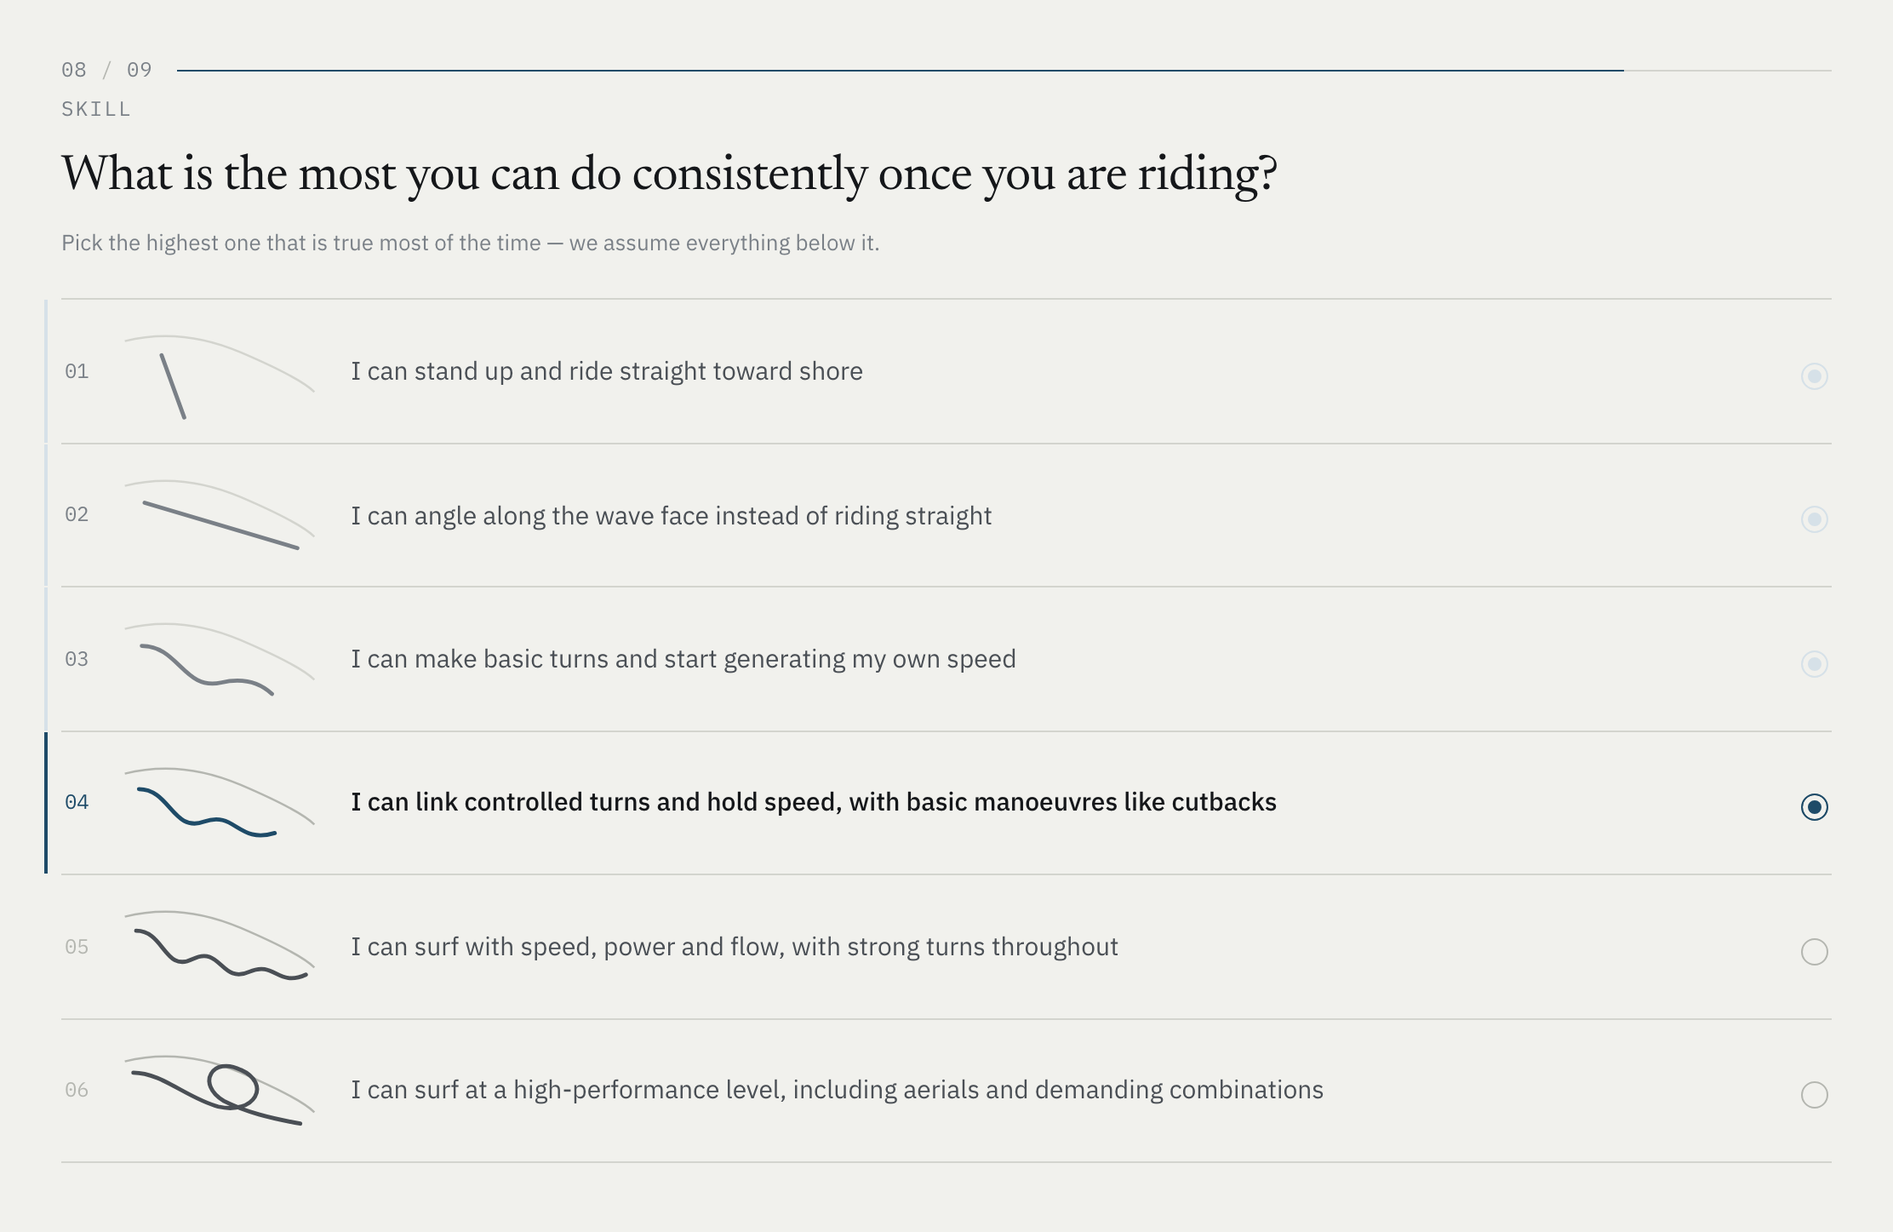
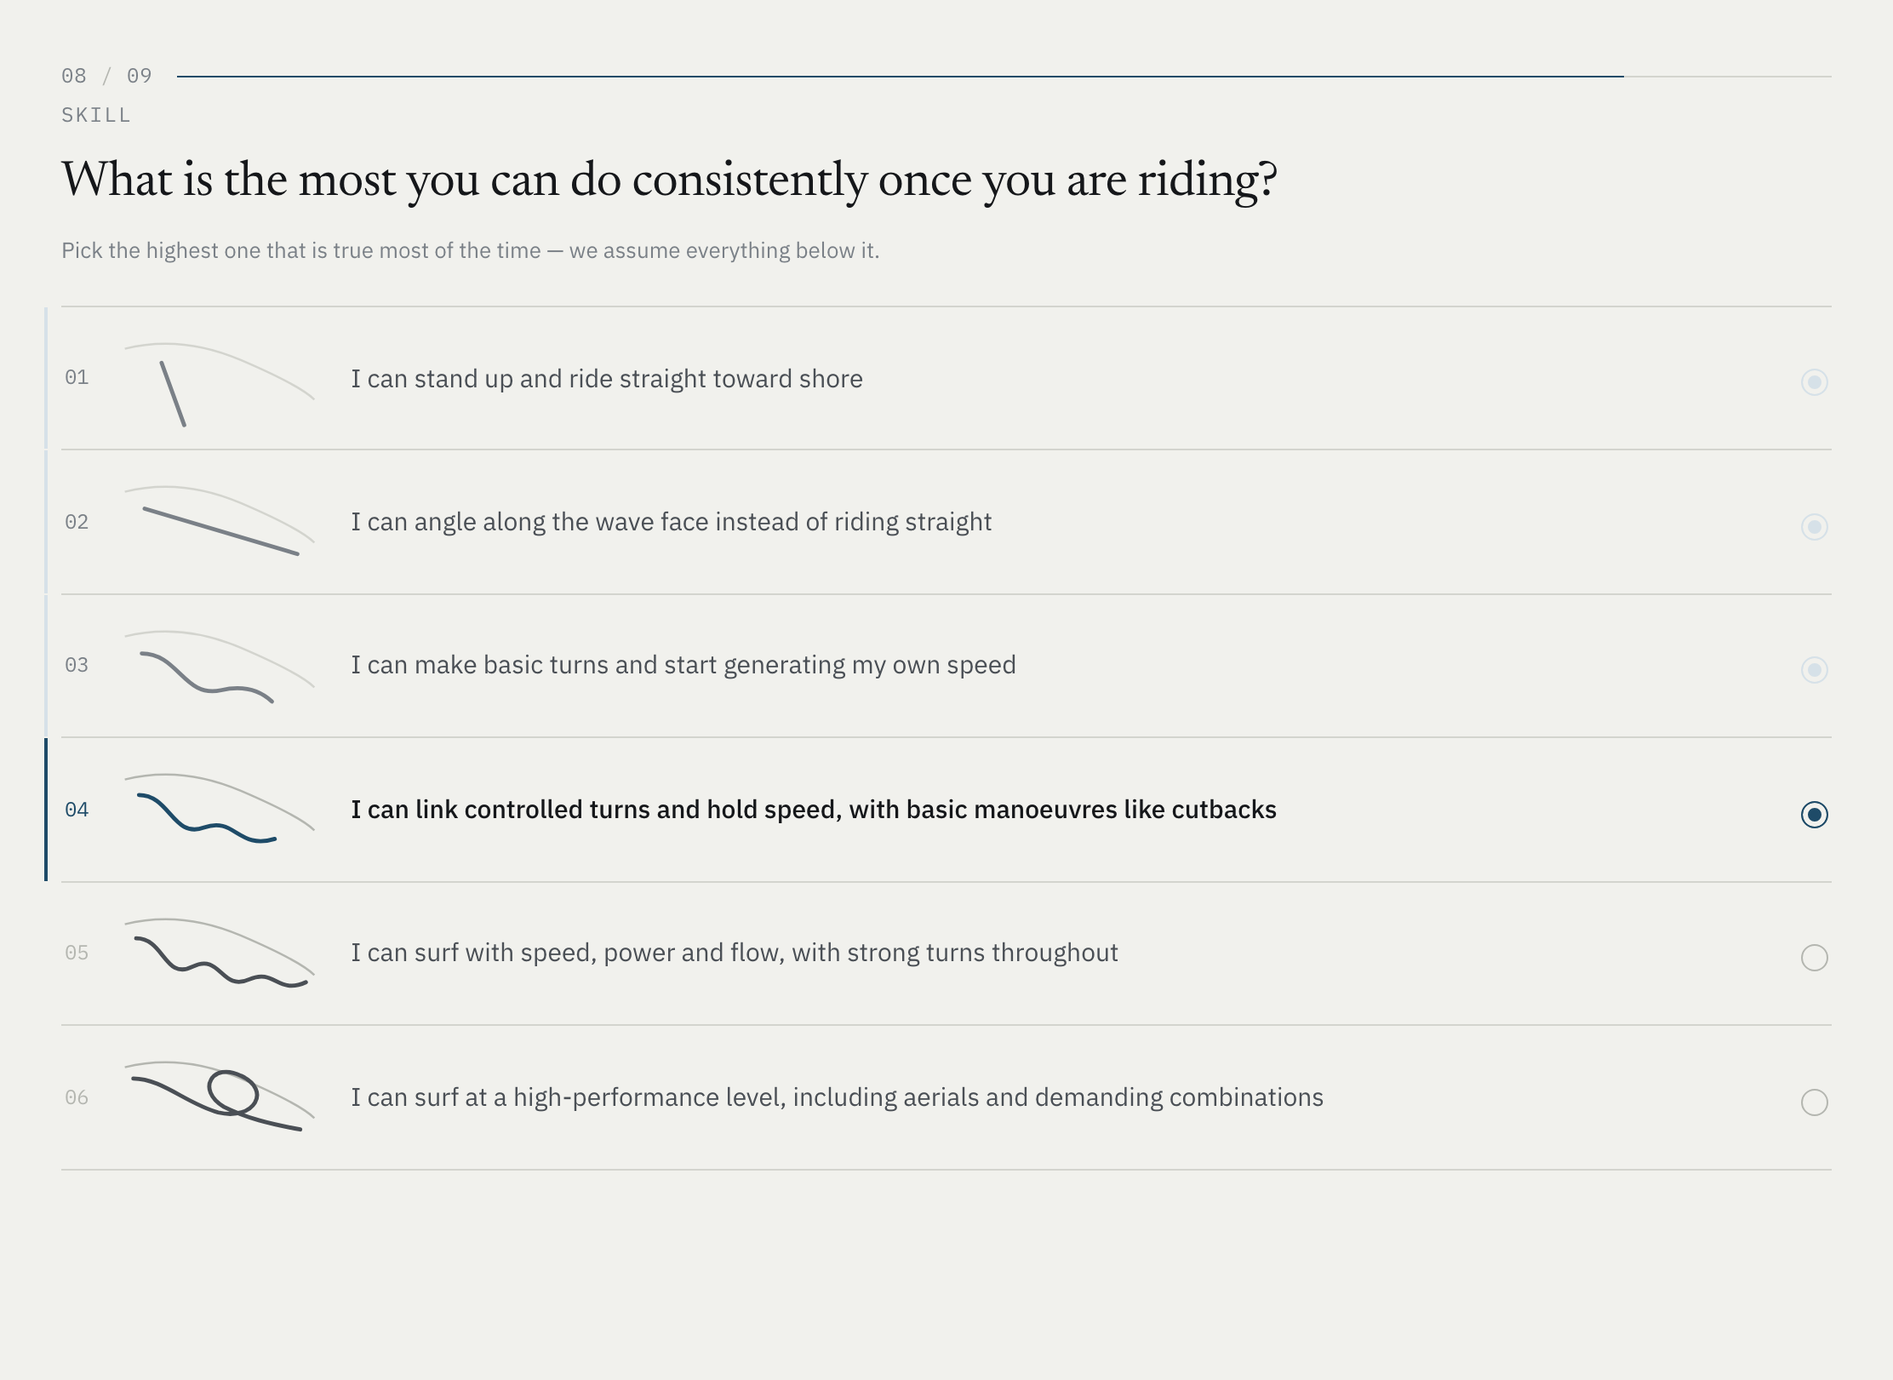
Redesign the profile and onboarding sections
Profile:
- Five granular annotations become four, each naming a region of the
  screen rather than a UI detail: who the surfer is, where they are
  heading, what to ride, and how to argue with it.
- Desktop puts the screenshot in the middle with two annotations
  either side, connected by a hairline to a small marker on the image
  edge, so nothing sits over the interface. Tablet and mobile stack
  the screen first and read the four as a list.
- New capture from the running app showing the whole screen, including
  Challenges and What you're looking for, with the prototype control
  hidden for the shot.

Onboarding:
- The old heading claimed the two featured screens were the two that
  carry the design; they are examples of interaction design, not the
  most important questions.
- Verified against the bundle and by walking the live app: nine
  questions are defined and a surfer answers nine, eight or six. Q2-Q4
  drop when there is no regular board, Q4 alone when the dimensions
  are unknown. The section now says so.
- Every question is listed in a three-column index, with the
  conditional ones marked and the logic left in one sentence.
- Both featured descriptions cut to three lines, and the two screens
  recaptured on one shared frame so they match at 2224x1621 with their
  proportions untouched.

Also fixes a class collision: the new annotation class was named
.qv-note, which the hero's prototype line already used, and the
[…]

diff --git a/projects/quiver.html b/projects/quiver.html
@@ -58,6 +58,15 @@
     .qv-figs--2 { grid-template-columns: repeat(2, 1fr); }
     .qv-hero-actions--inline { margin: 32px 0 0; }
 
+    /* Question index — every question at a glance, as an editorial index rather
+       than nine cards. Conditional ones say so and explain nothing further. */
+    .qv-qlist { display: grid; grid-template-columns: repeat(3, 1fr); column-gap: 32px; margin: 34px 0 0; padding: 0; list-style: none; }
+    .qv-q { display: grid; grid-template-columns: 24px 1fr; column-gap: 12px; align-items: start; padding: 13px 0; border-top: 1px solid var(--border); }
+    .qv-q__n { font-size: 12px; line-height: 1.6; color: var(--muted); font-variant-numeric: tabular-nums; }
+    .project-page .qv-q__l { font-size: 14px; font-weight: 300; line-height: 1.5; color: var(--text-body); margin: 0; max-width: none; }
+    .qv-q__c { display: block; margin-top: 3px; font-size: 11px; letter-spacing: 0.08em; text-transform: uppercase; color: var(--muted); }
+    .project-page .qv-qlist__after { margin-top: 34px; }
+
     /* Onboarding showcase — the two screens share a row, each introduced by the
        question it answers. Subgrid holds the eyebrow, heading, copy and mockup on
        the same four lines across both columns despite unequal copy lengths. */
@@ -77,6 +86,7 @@
     @media (max-width: 1099px) {
       .qv-screens { display: block; }
       .qv-screen { display: block; margin-top: 44px; }
+      .qv-qlist { grid-template-columns: 1fr 1fr; }
     }
 
     /* Matching — the prototype's own rack, lifted as vector and re-toned for
@@ -121,13 +131,39 @@
       .qv-match__toggle { display: none; }
     }
 
-    /* Annotated screen — pins ride the image in percentages, notes sit beside it */
-    .qv-annotated { display: grid; grid-template-columns: 1.55fr 1fr; gap: clamp(28px, 3vw, 52px); align-items: start; margin: 36px 0 0; }
-    .qv-annotated .screen-mockup { position: relative; }
-    .qv-pin { position: absolute; z-index: 2; pointer-events: none; left: var(--x); top: var(--y); width: 24px; height: 24px; margin: -12px 0 0 -12px; border-radius: 50%; background: var(--accent); color: #fff; font-size: 11px; font-weight: 500; display: flex; align-items: center; justify-content: center; font-variant-numeric: tabular-nums; box-shadow: 0 0 0 3px rgba(26, 26, 26, 0.75); transition: transform 0.2s; }
-    .qv-pin.is-active { transform: scale(1.25); }
-    .qv-notes .case-study-note.is-active .case-study-note__text { color: var(--text); }
-    .qv-notes .case-study-note { cursor: default; }
+    /* Profile — the screen is the centrepiece, with the four things it does named
+       either side of it. Markers ride the image edge at the matching height, so
+       nothing sits on top of the interface. */
+    .qv-profile { display: grid; grid-template-columns: 200px minmax(0, 1fr) 200px; column-gap: 22px; align-items: stretch; margin: 40px 0 0; }
+    .qv-profile__shot { position: relative; grid-column: 2; grid-row: 1; }
+    .qv-profile__shot .screen-mockup { border: 1px solid rgba(170, 195, 255, 0.16); border-radius: 8px; overflow: hidden; }
+    .qv-profile__shot img { width: 100%; height: auto; display: block; }
+    .qv-profile__side { position: relative; grid-row: 1; list-style: none; margin: 0; padding: 0; }
+    .qv-profile__side--l { grid-column: 1; }
+    .qv-profile__side--r { grid-column: 3; }
+
+    .qv-reg { position: absolute; top: var(--top); left: 0; right: 0; display: grid; grid-template-columns: 26px 1fr; column-gap: 12px; align-items: center; }
+    .project-page h3.qv-reg__t { grid-column: 2; font-size: 15px; font-weight: 400; line-height: 1.3; letter-spacing: -0.005em; color: var(--text); margin: 0; }
+    .project-page .qv-reg__b { grid-column: 1 / -1; font-size: 13.5px; font-weight: 300; line-height: 1.6; color: var(--text-body); margin: 10px 0 0; max-width: none; }
+    /* hairline across the gutter, meeting the dot on the image edge */
+    .qv-reg::after { content: ''; position: absolute; top: 13px; width: 22px; border-top: 1px solid var(--border); }
+    .qv-reg--l::after { right: -22px; }
+    .qv-reg--r::after { left: -22px; }
+    .qv-dot { position: absolute; top: var(--top); width: 7px; height: 7px; margin-top: 10px; border-radius: 50%; background: var(--accent); box-shadow: 0 0 0 3px var(--bg); }
+    .qv-dot--l { left: -3px; }
+    .qv-dot--r { right: -3px; }
+    .qv-reg.is-active .qv-reg__t { color: var(--text); }
+    .qv-dot.is-active { transform: scale(1.5); }
+    .qv-dot { transition: transform 0.2s; }
+    /* placed after the base rules so it actually wins: the screen first, then
+       the four regions read as a plain list */
+    @media (max-width: 1099px) {
+      .qv-profile { display: block; }
+      .qv-profile__side { margin-top: 8px; }
+      .qv-reg { position: static; margin-top: 30px; }
+      .qv-reg::after, .qv-dot { display: none; }
+      .project-page .qv-reg__b { font-size: 15px; }
+    }
 
     /* Pipeline status — shape and label, never colour alone */
     .qv-legend { display: flex; flex-wrap: wrap; gap: 20px; margin: 28px 0 0; max-width: none; font-size: 11px; letter-spacing: 0.08em; text-transform: uppercase; color: var(--muted); }
@@ -142,6 +178,7 @@
     .project-page .qv-node--spec { border-style: dotted; opacity: 0.8; }
 
     @media (max-width: 900px) { .project-page .qv-refs { grid-template-columns: 1fr; gap: 24px; } }
+    @media (max-width: 620px) { .qv-qlist { grid-template-columns: 1fr; } }
     @media (max-width: 900px) {
       .qv-figs--3, .qv-figs--2 { grid-template-columns: 1fr; }
       .qv-hero-actions { margin-bottom: 56px; }
@@ -152,8 +189,6 @@
       .qv-match figcaption { text-align: center; }
       .project-page .qv-match__caption { height: auto; min-height: 3.6em; }
       .qv-match__line { font-size: 15px; }
-      .qv-annotated { grid-template-columns: 1fr; }
-      .qv-pin { display: none; }
     }
   </style>
 </head>
@@ -317,30 +352,69 @@
     <!-- Onboarding & Information Collection -->
     <div class="content-section qv-wide">
       <p class="section-label">Onboarding</p>
-      <h2>Nine questions, and the two that carry the design</h2>
-      <p>Choosing the nine took longer than building them, under one rule &mdash; do not ask anything that cannot change the recommendation &mdash; and one precedence order: skill sets the boundaries, pain points outrank goals. Seven are a prompt and a list. Two are not, because the signal underneath them could not be collected honestly that&nbsp;way.</p>
+      <h2>Building a picture of the surfer</h2>
+      <p>Nine questions are defined and a surfer answers nine, eight or six. The board questions drop out when there is no regular board to describe, and the dimensions question when the surfer does not know them. Nothing is asked that cannot change the&nbsp;recommendation.</p>
+
+      <ol class="qv-qlist">
+        <li class="qv-q">
+          <span class="qv-q__n">01</span>
+          <p class="qv-q__l">The board you ride now</p>
+        </li>
+        <li class="qv-q">
+          <span class="qv-q__n">02</span>
+          <p class="qv-q__l">What that board feels like<span class="qv-q__c">if it applies</span></p>
+        </li>
+        <li class="qv-q">
+          <span class="qv-q__n">03</span>
+          <p class="qv-q__l">Whether you know its dimensions<span class="qv-q__c">if it applies</span></p>
+        </li>
+        <li class="qv-q">
+          <span class="qv-q__n">04</span>
+          <p class="qv-q__l">The dimensions themselves<span class="qv-q__c">if it applies</span></p>
+        </li>
+        <li class="qv-q">
+          <span class="qv-q__n">05</span>
+          <p class="qv-q__l">What holds you back</p>
+        </li>
+        <li class="qv-q">
+          <span class="qv-q__n">06</span>
+          <p class="qv-q__l">What you want more of</p>
+        </li>
+        <li class="qv-q">
+          <span class="qv-q__n">07</span>
+          <p class="qv-q__l">The waves you usually surf</p>
+        </li>
+        <li class="qv-q">
+          <span class="qv-q__n">08</span>
+          <p class="qv-q__l">What you can do consistently</p>
+        </li>
+        <li class="qv-q">
+          <span class="qv-q__n">09</span>
+          <p class="qv-q__l">Height and weight</p>
+        </li>
+      </ol>
+
+      <p class="qv-qlist__after">Seven of them are a prompt and a list. Two are not, because the signal underneath them is subjective, and asking for it in words returns an&nbsp;adjective.</p>
 
       <div class="qv-screens">
       <div class="qv-screen">
-        <p class="qv-screen__eyebrow">07 / 09 &middot; Environment</p>
+        <p class="qv-screen__eyebrow">07 &middot; Environment</p>
         <h3 class="qv-screen__q">Recognising a break, not grading one</h3>
-        <p>&ldquo;What kind of waves do you usually surf?&rdquo; asked in words gets you an adjective. Each option carries a photograph, a height chip and a single line of hint, so the answer comes from recognition rather than&nbsp;self-assessment.</p>
+        <p>Each option carries a photograph, a wave-height chip and one line of hint, so the answer comes from recognition rather than&nbsp;self-assessment.</p>
         <div class="screen-mockup">
           <img src="../assets/images/quiver-q7-waves.jpg" alt="Onboarding question seven: four wave conditions, each with a photograph, a wave-height chip and a one-line hint, with the counter reading 07 of 09" width="2224" height="1621" loading="lazy" data-lightbox>
         </div>
       </div>
 
       <div class="qv-screen">
-        <p class="qv-screen__eyebrow">08 / 09 &middot; Skill</p>
+        <p class="qv-screen__eyebrow">08 &middot; Skill</p>
         <h3 class="qv-screen__q">Behaviour, not self-image</h3>
-        <p>&ldquo;What is the most you can do consistently once you are riding?&rdquo; Nobody is asked whether they are a beginner or an advanced surfer, because that answer is an identity rather than a fact. Six rungs of observable behaviour instead, and choosing one claims everything below it &mdash; which the interface draws rather than leaving implied. It was specified as a multi-select and became a ladder, which is what made a skipped rung impossible to&nbsp;express.</p>
+        <p>Nobody is asked whether they are a beginner, because that is an identity rather than a fact. Six rungs of observable behaviour instead, and picking one visibly claims everything below&nbsp;it.</p>
         <div class="screen-mockup">
-          <img src="../assets/images/quiver-q8-ladder.png" alt="Onboarding question eight: a six-rung ability ladder with rung four selected and the three rungs beneath it marked as claimed" width="2224" height="1447" loading="lazy" data-lightbox>
+          <img src="../assets/images/quiver-q8-ladder.png" alt="Onboarding question eight: a six-rung ability ladder with rung four selected and the three rungs beneath it marked as claimed" width="2224" height="1621" loading="lazy" data-lightbox>
         </div>
       </div>
       </div>
-
-      <p class="qv-screen__after">The other seven are short: current board, how it feels, dimensions, what holds you back, what you want more of, height and weight. The ninth asks how often you surf and then says on screen that it does not change your size&nbsp;range.</p>
     </div>
 
     <hr class="divider">
@@ -349,39 +423,42 @@
     <div class="content-section qv-wide">
       <p class="section-label">The Profile</p>
       <h2>The screen that has to earn the recommendation</h2>
-      <p>Nine answers become five readings of a surfer, each with its own confidence and evidence. The profile shows that work instead of hiding it, because a recommendation you cannot interrogate is only an&nbsp;assertion.</p>
+      <p>The profile shows its work instead of hiding it, because a recommendation you cannot interrogate is only an assertion. Four regions carry it: who the surfer is, where they are heading, what to ride, and how to argue with any of&nbsp;it.</p>
 
-      <div class="qv-annotated">
-        <div class="screen-showcase">
+      <div class="qv-profile">
+        <div class="qv-profile__shot">
           <div class="screen-mockup">
-            <img src="../assets/images/quiver-profile.png" alt="The Quiver profile dashboard: the surfer's details and reading on the left, and the board recommendation, size range and calibration panel on the right" width="2880" height="1800" loading="lazy" data-lightbox>
-            <span class="qv-pin" data-note="1" style="--x:53.5%; --y:10.5%" aria-hidden="true">1</span>
-            <span class="qv-pin" data-note="2" style="--x:27%; --y:38%" aria-hidden="true">2</span>
-            <span class="qv-pin" data-note="3" style="--x:64%; --y:50.5%" aria-hidden="true">3</span>
-            <span class="qv-pin" data-note="4" style="--x:64%; --y:62%" aria-hidden="true">4</span>
-            <span class="qv-pin" data-note="5" style="--x:64%; --y:85.5%" aria-hidden="true">5</span>
+            <img src="../assets/images/quiver-profile.png" alt="The Quiver profile screen: the surfer's details and reading down the left, the recommended category, volume and length range on the right, and the calibration panel beneath it" width="2200" height="2562" loading="lazy" data-lightbox>
           </div>
+          <span class="qv-dot qv-dot--l" data-note="1" style="--top:10%" aria-hidden="true"></span>
+          <span class="qv-dot qv-dot--l" data-note="2" style="--top:52%" aria-hidden="true"></span>
+          <span class="qv-dot qv-dot--r" data-note="3" style="--top:10%" aria-hidden="true"></span>
+          <span class="qv-dot qv-dot--r" data-note="4" style="--top:61%" aria-hidden="true"></span>
         </div>
-        <ol class="case-study-notes qv-notes">
-          <li class="case-study-note">
+
+        <ol class="qv-profile__side qv-profile__side--l">
+          <li class="qv-reg qv-reg--l" data-note="1" style="--top:10%">
             <span class="case-study-note__num">1</span>
-            <p class="case-study-note__text">The level tracks the rung you picked; the engine keeps its own&nbsp;band.</p>
+            <h3 class="qv-reg__t">Your profile</h3>
+            <p class="qv-reg__b">Height, weight, how often you surf, the waves you surf and the board you ride now &mdash; the answers restated as one reading, in sentences rather than a&nbsp;score.</p>
           </li>
-          <li class="case-study-note">
+          <li class="qv-reg qv-reg--l" data-note="2" style="--top:52%">
             <span class="case-study-note__num">2</span>
-            <p class="case-study-note__text">Dimensions not given, so the range stays wide - and it says&nbsp;why.</p>
+            <h3 class="qv-reg__t">Where we&rsquo;re taking you</h3>
+            <p class="qv-reg__b">That reading turned into a direction: what holds this surfer back, what they want more of, and whether the board under them is the thing in the&nbsp;way.</p>
           </li>
-          <li class="case-study-note">
+        </ol>
+
+        <ol class="qv-profile__side qv-profile__side--r" start="3">
+          <li class="qv-reg qv-reg--r" data-note="3" style="--top:10%">
             <span class="case-study-note__num">3</span>
-            <p class="case-study-note__text">A zone with an emphasis marker, not a number pretending to be&nbsp;exact.</p>
+            <h3 class="qv-reg__t">Recommendation</h3>
+            <p class="qv-reg__b">A category and a volume range rather than one number, with the reasoning beside it &mdash; including when nothing argues for leaving standard&nbsp;sizing.</p>
           </li>
-          <li class="case-study-note">
+          <li class="qv-reg qv-reg--r" data-note="4" style="--top:61%">
             <span class="case-study-note__num">4</span>
-            <p class="case-study-note__text">It explains itself even when the answer is &ldquo;nothing unusual&nbsp;here&rdquo;.</p>
-          </li>
-          <li class="case-study-note">
-            <span class="case-study-note__num">5</span>
-            <p class="case-study-note__text">&ldquo;Not quite right?&rdquo; - argue with it in a&nbsp;sentence.</p>
+            <h3 class="qv-reg__t">Not quite right?</h3>
+            <p class="qv-reg__b">A sentence is enough to push back. Corrections are read as intent and layered over the profile, so the answer moves without re-answering&nbsp;anything.</p>
           </li>
         </ol>
       </div>
@@ -620,16 +697,18 @@
       });
     });
 
-    // Hovering a note lifts its pin on the screenshot. Pins are decorative
-    // (aria-hidden, pointer-events none) so the lightbox stays clickable.
-    document.querySelectorAll('.qv-annotated').forEach(function (block) {
-      block.querySelectorAll('.case-study-note').forEach(function (note, i) {
-        var pin = block.querySelector('.qv-pin[data-note="' + (i + 1) + '"]');
-        if (!pin) return;
-        var on = function () { pin.classList.add('is-active'); note.classList.add('is-active'); };
-        var off = function () { pin.classList.remove('is-active'); note.classList.remove('is-active'); };
-        note.addEventListener('mouseenter', on);
-        note.addEventListener('mouseleave', off);
+    // Hovering a region lifts its marker on the screenshot. Markers are
+    // decorative (aria-hidden) so the lightbox stays clickable.
+    document.querySelectorAll('.qv-profile').forEach(function (block) {
+      block.querySelectorAll('.qv-reg').forEach(function (note) {
+        var dot = block.querySelector('.qv-dot[data-note="' + note.dataset.note + '"]');
+        if (!dot) return;
+        var set = function (on) {
+          dot.classList.toggle('is-active', on);
+          note.classList.toggle('is-active', on);
+        };
+        note.addEventListener('mouseenter', function () { set(true); });
+        note.addEventListener('mouseleave', function () { set(false); });
       });
     });
   </script>
